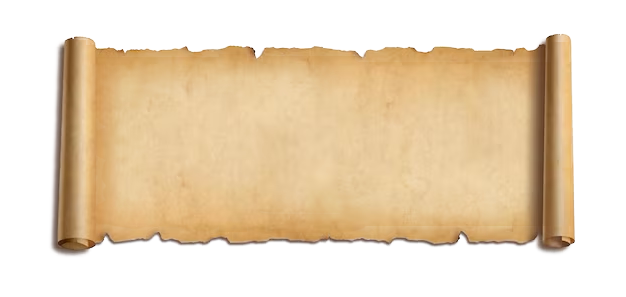
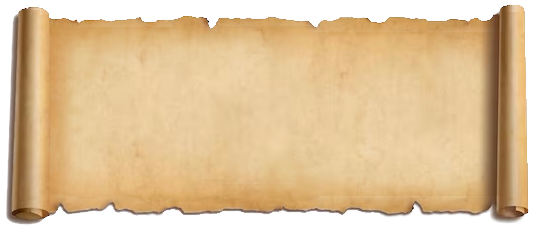
fix dialog scroll and text

diff --git a/script.js b/script.js
@@ -97,17 +97,17 @@ if(type === 'warrior') {
     const img = document.getElementById('hero-portrait');
     img.src = 'img/hero.png';
     playerClassName.innerText = "Warrior";
-    setDialog("The armored warrior lifted his great shield and set out to destroy the great evil that infested his realm. Only then would the king grant his return from exile.")
+    setDialog("The armored warrior lifted his massive shield and set out to destroy the great evil that has infested the realm. An army of undead now stand between the knight and glory...")
 } else if(type === 'wizard') {
     const img = document.getElementById('hero-portrait');
     img.src = 'img/hero-wizard.png';
     playerClassName.innerText = "Wizard";
-    setDialog("The wizard left his tower for the first time in years, ready to crush the undead swarm. What secrets will be discover on this path?")
+    setDialog("The wizard emerged from his secluded tower, ready to vanquish the slavering undead hordes. The necromancers had stolen knowledge from his tower, and would soon feel his arcane wrath...")
 } else if(type === 'barbarian') {
     const img = document.getElementById('hero-portrait');
     img.src = 'img/barbarian.png';
     playerClassName.innerText = "Barbarian";
-    setDialog("The barbarian lifted her massive sword, and set out to destroy her enemies. She would not rest until the undead were driven before her, and she could hear the lamentations of their evil makers.")
+    setDialog("The barbarian lifted her ancient sword, and set out to crush her enemies. She smiled, knowing that soon, she would see the undead driven before her, and hear the lamentations of their evil makers...")
 }
     console.log('Player selected' + type)
     showDialogMenu();

diff --git a/styles.css b/styles.css
@@ -5,13 +5,13 @@ body, html {
 }
 
 h1 {
-    font-family: "URW Chancery L", cursive;
+    font-family: "Luminari", "fantasy";
     font-size: 60px;
     margin: 100px;
 }
 
 h2 {
-    font-family: "URW Chancery L", cursive;
+    font-family: "Luminari", "fantasy";
     font-size: 48px;
     margin: 100px;
 }
@@ -98,10 +98,14 @@ button:hover {
 #dialog-menu p {
     text-align: justify;
     width: 400px;
-    padding: 50px;
+    padding: 70px;
+    font-size: large;
     font-family: "Luminari", "fantasy";
     margin: 100px auto 100px;
-    background-color: antiquewhite;
+    background-image: url("img/scroll.png");
+    background-size: 100% 100%;
+    color:darkslategray;
+    opacity: 80%;
 }
 
 #hero-select-menu {
